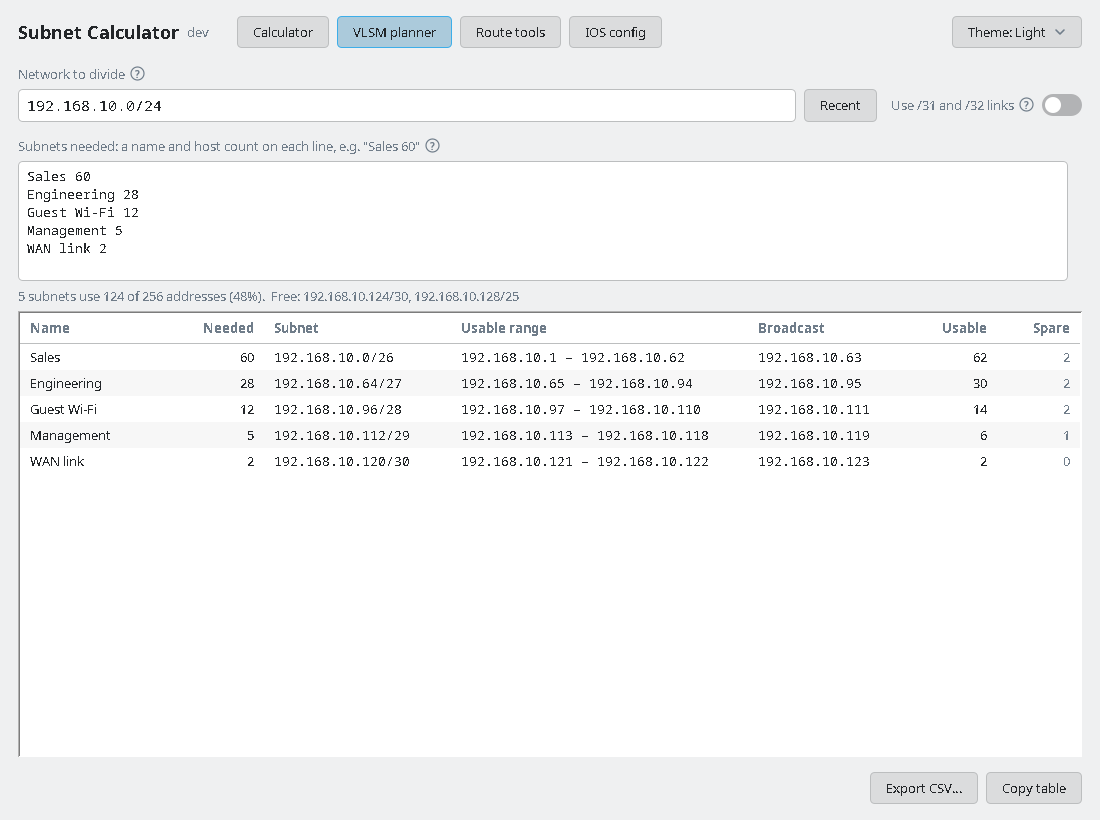
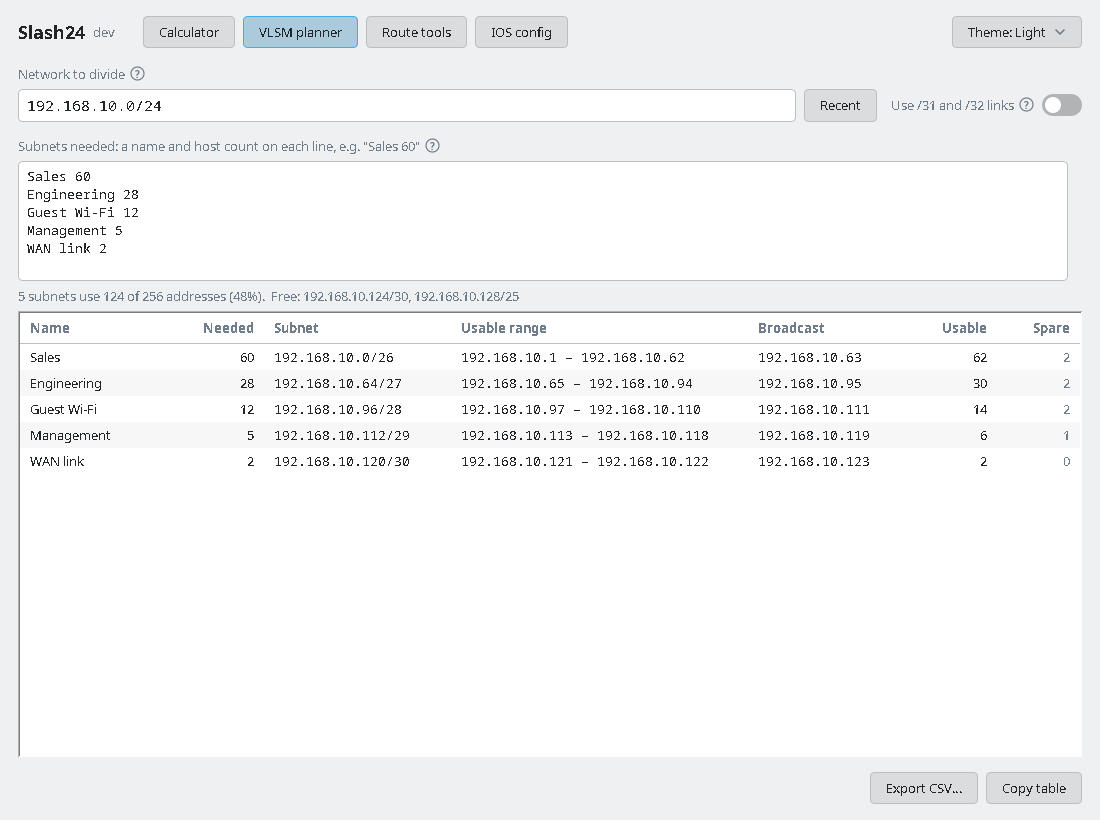
Release 1.4.0: rename to Slash24
App, command, packages, install folders, Java package and repository
are now Slash24. Settings move over on first launch, the RPM obsoletes
subnet-calculator, and the installers remove the old per-user install.

Changed region(s): [[0.0309, 0.0, 0.5873, 0.061]]

diff --git a/src/slash24/App.java b/src/slash24/App.java
@@ -1,4 +1,4 @@
-package subnetcalc;
+package slash24;
 
 import java.awt.BorderLayout;
 import java.awt.CardLayout;
@@ -6,6 +6,7 @@ import java.awt.Dimension;
 import java.awt.Font;
 import java.awt.event.ActionEvent;
 import java.util.List;
+import java.util.prefs.BackingStoreException;
 import java.util.prefs.Preferences;
 import javax.swing.AbstractAction;
 import javax.swing.Box;
@@ -25,7 +26,7 @@ import javax.swing.SwingUtilities;
 import javax.swing.Timer;
 import javax.swing.border.EmptyBorder;
 
-/** Subnet Calculator: a dependency-free Swing app styled after KDE Breeze. */
+/** Slash24: a dependency-free Swing app styled after KDE Breeze. */
 public final class App {
     /** From the jar manifest (see build.sh); "dev" when run from unpackaged classes. */
     static final String VERSION = App.class.getPackage().getImplementationVersion() != null
@@ -35,7 +36,7 @@ public final class App {
     private static final String[] MODES = {"system", "light", "dark"};
     private static final String[] MODE_NAMES = {"Match system", "Light", "Dark"};
 
-    final JFrame frame = new JFrame("Subnet Calculator");
+    final JFrame frame = new JFrame("Slash24");
     private final Preferences prefs;
     /** Pages are built the first time they are shown, which keeps startup short. */
     private final Page[] pages = new Page[PAGE_KEYS.length];
@@ -49,10 +50,10 @@ public final class App {
 
     public static void main(String[] args) {
         if (List.of(args).contains("--version")) {
-            System.out.println("Subnet Calculator " + VERSION);
+            System.out.println("Slash24 " + VERSION);
             return;
         }
-        Preferences prefs = Preferences.userNodeForPackage(App.class);
+        Preferences prefs = preferences();
         Ui.theme = Theme.of(darkFor(initialMode(prefs)));
         SwingUtilities.invokeLater(() -> {
             Ui.installLookAndFeel();
@@ -82,7 +83,7 @@ public final class App {
         tabs[start].setSelected(true);
         showPage(start);
 
-        JLabel title = new JLabel("Subnet Calculator");
+        JLabel title = new JLabel("Slash24");
         title.setFont(Ui.SANS.deriveFont(Font.BOLD, 18f));
         theme.setIcon(new Ui.Chevron(true));
         theme.setHorizontalTextPosition(SwingConstants.LEADING);
@@ -151,6 +152,23 @@ public final class App {
             menu.add(item);
         }
         return menu;
+    }
+
+    /** The app's settings. Settings saved before the rename to Slash24 (1.4.0) are moved over once. */
+    static Preferences preferences() {
+        Preferences root = Preferences.userRoot(), prefs = root.node("slash24");
+        try {
+            if (prefs.keys().length == 0 && root.nodeExists("subnetcalc")) {
+                Preferences old = root.node("subnetcalc");
+                for (String key : old.keys()) prefs.put(key, old.get(key, ""));
+                prefs.flush();
+                old.removeNode();
+                root.flush();
+            }
+        } catch (BackingStoreException e) {
+            // unreadable settings: start with the defaults
+        }
+        return prefs;
     }
 
     static String initialMode(Preferences prefs) {

diff --git a/test/slash24/SubnetTest.java b/test/slash24/SubnetTest.java
@@ -1,6 +1,6 @@
-package subnetcalc;
+package slash24;
 
-import static subnetcalc.Subnet.format;
+import static slash24.Subnet.format;
 
 /** Dependency-free checks of the subnet arithmetic and parsing; run by build.sh. */
 public final class SubnetTest {
@@ -421,7 +421,7 @@ public final class SubnetTest {
 
     /** 1.3.3: every setting on the config page has a "?" with a description and an example. */
     private static void helpCoverage() {
-        java.util.prefs.Preferences prefs = java.util.prefs.Preferences.userRoot().node("subnetcalc-test-" + ProcessHandle.current().pid());
+        java.util.prefs.Preferences prefs = java.util.prefs.Preferences.userRoot().node("slash24-test-" + ProcessHandle.current().pid());
         try {
             Ui.theme = Theme.of(false);
             Ui.installLookAndFeel();

diff --git a/src/slash24/Ui.java b/src/slash24/Ui.java
@@ -1,4 +1,4 @@
-package subnetcalc;
+package slash24;
 
 import java.awt.AlphaComposite;
 import java.awt.BasicStroke;
@@ -477,7 +477,7 @@ public final class Ui {
 
     /** Basic look and feel with every colour, font and border taken from the current {@link Theme}. */
     public static final class Laf extends BasicLookAndFeel {
-        @Override public String getName() { return "Subnet Calculator"; }
+        @Override public String getName() { return "Slash24"; }
         @Override public String getID() { return getName(); }
         @Override public String getDescription() { return "Flat look matching the KDE colour scheme"; }
         @Override public boolean isNativeLookAndFeel() { return false; }

diff --git a/tools/slash24/Training.java b/tools/slash24/Training.java
@@ -1,4 +1,4 @@
-package subnetcalc;
+package slash24;
 
 import java.awt.Component;
 import java.awt.Container;
@@ -18,7 +18,7 @@ final class Training {
     private Training() { }
 
     public static void main(String[] args) throws Exception {
-        Preferences prefs = Preferences.userRoot().node("subnetcalc-training-" + ProcessHandle.current().pid());
+        Preferences prefs = Preferences.userRoot().node("slash24-training-" + ProcessHandle.current().pid());
         try {
             SwingUtilities.invokeAndWait(() -> {
                 for (boolean dark : new boolean[] {true, false}) {

diff --git a/src/slash24/CalculatorView.java b/src/slash24/CalculatorView.java
@@ -1,10 +1,10 @@
-package subnetcalc;
+package slash24;
 
-import static subnetcalc.Subnet.format;
-import static subnetcalc.Ui.at;
-import static subnetcalc.Ui.dim;
-import static subnetcalc.Ui.status;
-import static subnetcalc.Ui.wide;
+import static slash24.Subnet.format;
+import static slash24.Ui.at;
+import static slash24.Ui.dim;
+import static slash24.Ui.status;
+import static slash24.Ui.wide;
 
 import java.awt.BorderLayout;
 import java.awt.GridBagConstraints;

diff --git a/src/slash24/VlsmView.java b/src/slash24/VlsmView.java
@@ -1,10 +1,10 @@
-package subnetcalc;
+package slash24;
 
-import static subnetcalc.Subnet.format;
-import static subnetcalc.Ui.at;
-import static subnetcalc.Ui.dim;
-import static subnetcalc.Ui.status;
-import static subnetcalc.Ui.wide;
+import static slash24.Subnet.format;
+import static slash24.Ui.at;
+import static slash24.Ui.dim;
+import static slash24.Ui.status;
+import static slash24.Ui.wide;
 
 import java.awt.BorderLayout;
 import java.awt.GridBagConstraints;

diff --git a/src/slash24/ToolsView.java b/src/slash24/ToolsView.java
@@ -1,9 +1,9 @@
-package subnetcalc;
+package slash24;
 
-import static subnetcalc.Subnet.format;
-import static subnetcalc.Ui.at;
-import static subnetcalc.Ui.dim;
-import static subnetcalc.Ui.status;
+import static slash24.Subnet.format;
+import static slash24.Ui.at;
+import static slash24.Ui.dim;
+import static slash24.Ui.status;
 
 import java.awt.BorderLayout;
 import java.awt.CardLayout;

diff --git a/src/slash24/ConfigView.java b/src/slash24/ConfigView.java
@@ -1,8 +1,8 @@
-package subnetcalc;
+package slash24;
 
-import static subnetcalc.Ui.at;
-import static subnetcalc.Ui.dim;
-import static subnetcalc.Ui.status;
+import static slash24.Ui.at;
+import static slash24.Ui.dim;
+import static slash24.Ui.status;
 
 import java.awt.BorderLayout;
 import java.awt.Cursor;

diff --git a/src/slash24/IosConfig.java b/src/slash24/IosConfig.java
@@ -1,6 +1,6 @@
-package subnetcalc;
+package slash24;
 
-import static subnetcalc.Subnet.format;
+import static slash24.Subnet.format;
 
 import java.util.ArrayList;
 import java.util.HashSet;

diff --git a/src/slash24/Theme.java b/src/slash24/Theme.java
@@ -1,4 +1,4 @@
-package subnetcalc;
+package slash24;
 
 import static java.nio.file.StandardWatchEventKinds.ENTRY_CREATE;
 import static java.nio.file.StandardWatchEventKinds.ENTRY_MODIFY;

diff --git a/src/slash24/Subnet.java b/src/slash24/Subnet.java
@@ -1,4 +1,4 @@
-package subnetcalc;
+package slash24;
 
 /**
  * An IPv4 address plus prefix length. Every value is derived from the two ints on demand,

diff --git a/src/slash24/History.java b/src/slash24/History.java
@@ -1,4 +1,4 @@
-package subnetcalc;
+package slash24;
 
 import java.awt.event.ActionEvent;
 import java.util.ArrayList;
